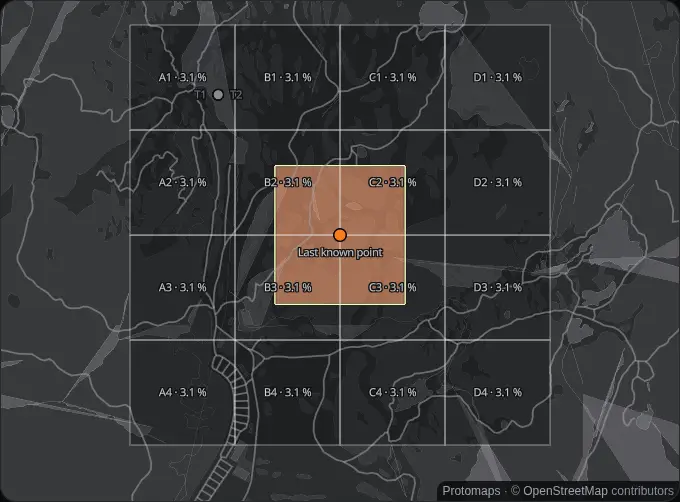
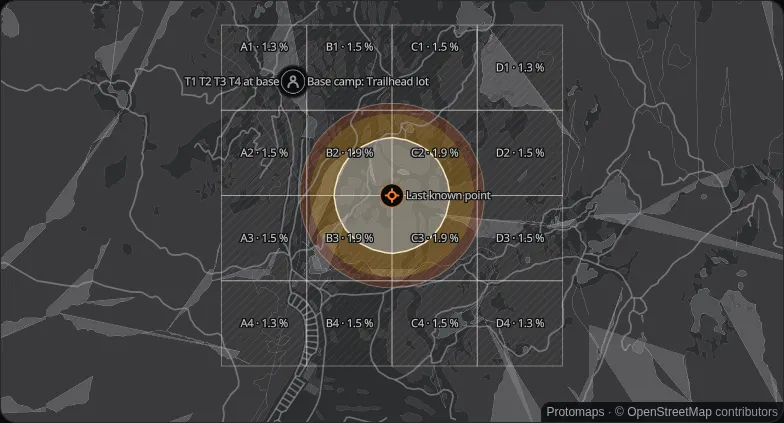
Phone stills rendered by scripts/map-stills.mjs from the current fixture (the console at t0, legend closed), documented in src/map/README.md

diff --git a/web/src/map/README.md b/web/src/map/README.md
@@ -1,0 +1,35 @@
+# web/src/map: the map
+
+`MapView.tsx` holds the MapLibre map; `base/` draws lane B's layers (the grid, footprints, pins, the last known
+point, and the live mission's clues, teams, drones and legs: `base/README.md`); `heat/` draws the probability
+surface (`heat/README.md`). `pick.ts` lets another panel ask for a point on the map.
+
+## Bearing clues
+
+A sound a team heard with a bearing (contract 15.7: `origin`, `bearing_deg`, `bearing_spread_deg`, `range_m`)
+draws as an arc in the clue amber (`base/clueLayer.ts` `clueArcFeatures`, the `live-heat-clue-arcs` layers in
+`heat/LiveHeatMap.tsx`): from where the team stood (the clue's `origin`, else the reporting team's position),
+within the bearing ± its spread, `range_m` away ± the clue's `radius_m` (an inner edge of 0 is a wedge from the
+team). It is the area the map's own update raises (`sightline/search/live.py` `_clue_cells`). Hovering it says
+what was heard, who heard it, and the bearing and range; the pin at the arc's middle keeps its popup, and the
+fading ring when the clue lands is the arc too. Tested on the overdue hiker's whistle (`base/clueArc.test.ts`).
+
+## The still map (phones)
+
+Phones and slower devices see a still image of the demo map until the map is wanted (`MapStill.tsx`):
+`public/map/demo-t0-390.webp` (a 390 px screen, at 2×) and `public/map/demo-t0-1440.webp` (1024 px and up).
+They are rendered from the current fixture, never made by hand:
+
+```sh
+cd web
+node scripts/map-stills.mjs                              # starts its own Vite server, writes both stills
+node scripts/map-stills.mjs --url http://localhost:5173  # or uses a dev server already running
+```
+
+The script opens the console at t0 (the call, `#m/demo/map?t=0`) with the legend closed (its pill left out of
+the picture: the still's own label sits there) and the dark theme
+(`--theme light` for the other), loads the live map (tapping the still on the phone size), waits for it to
+settle, screenshots the map's box with Playwright's Chromium and encodes WebP in the same browser. It needs
+the demo cache in `public/cache/demo` (`scripts/fetch-caches.sh`) and Chromium for Playwright (`pnpm exec
+playwright install chromium`, once). Run it again whenever the demo fixture, the map's look or the console's
+layout changes, and commit the two images.
